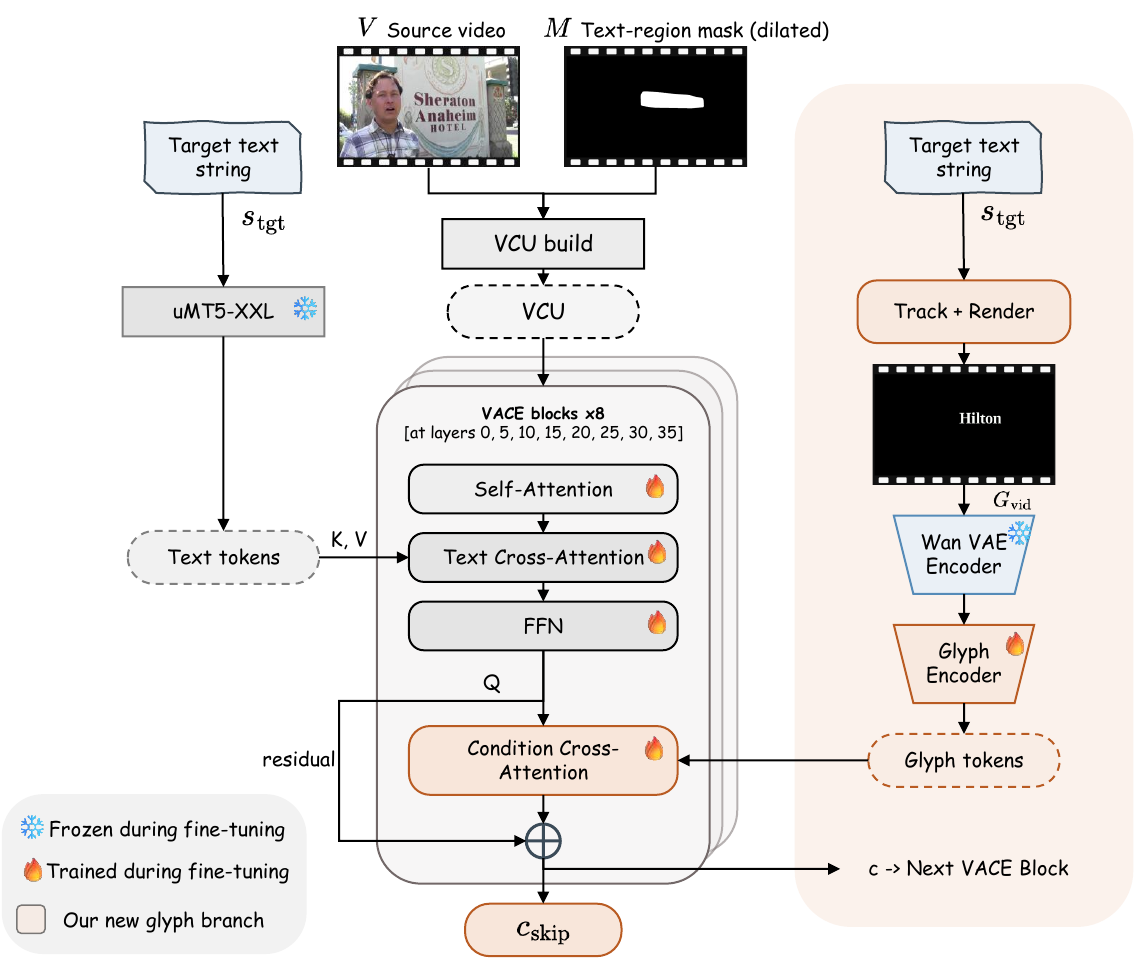
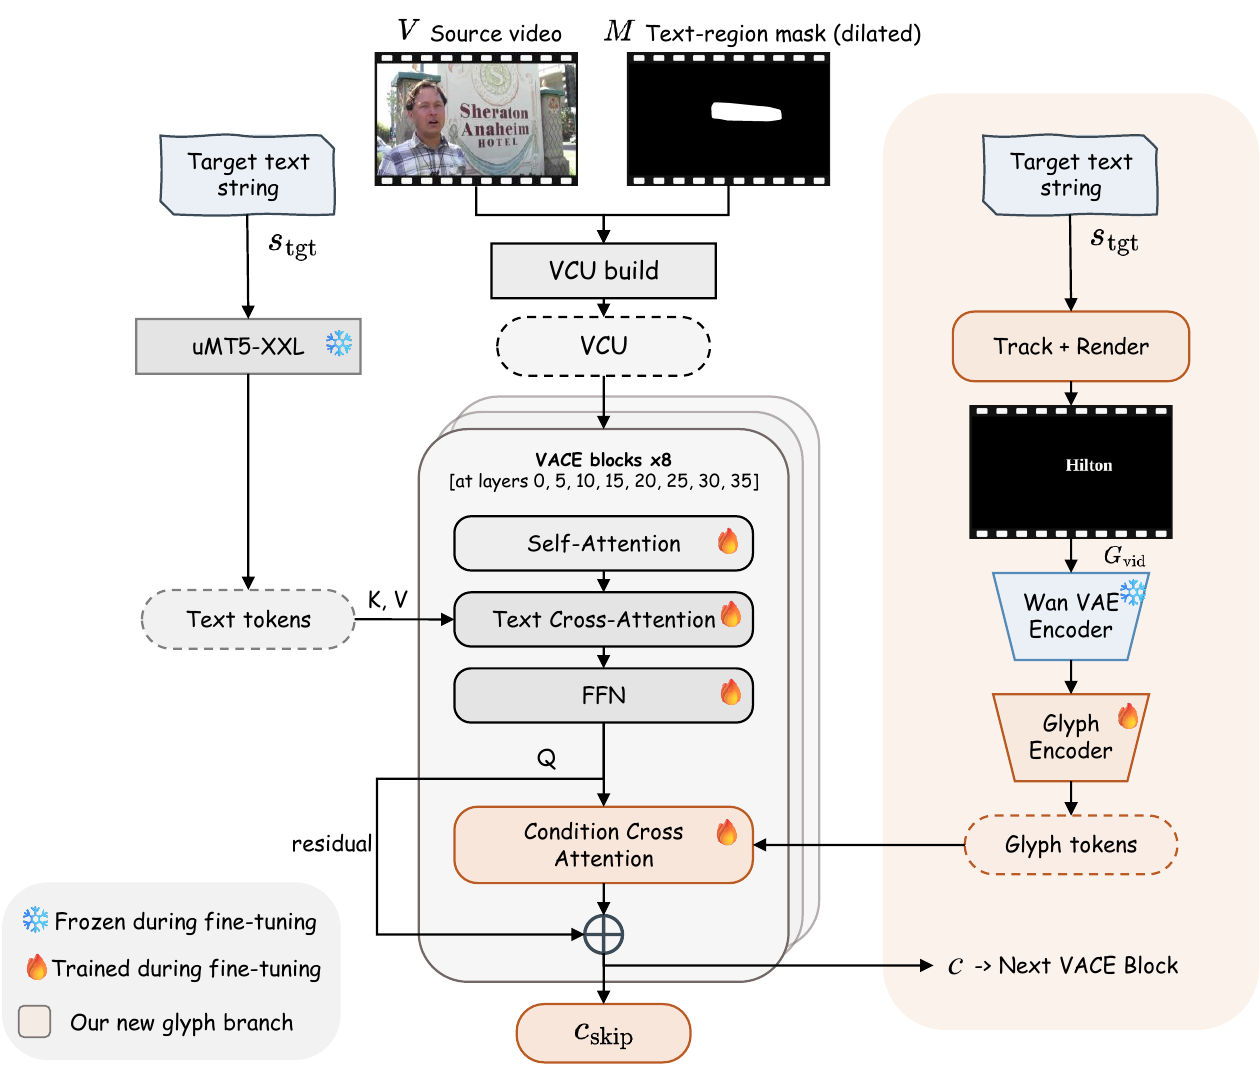
Sync project page with the latest paper
* Re-export teaser.png, pipeline.png, and arch.png from the current
  paper/ViTeX/figs/*.pdf at 160 DPI so the figures match the latest
  paper revision.
* Abstract: replace the previous prose with the new paper abstract
  verbatim. Surfaces the headline numbers (CharAcc 0.688 = +11.1% over
  VideoPainter; Flicker_f -2.1%, Flicker_c -6.6%, Warp_c -1.9% over
  the previous best) and the all-eight-baselines failure-mode framing.
* Three-part release cards: rewritten from the new contribution
  bullets in the introduction. Drops the "230-clip training split,
  permanently frozen 157-clip evaluation split" and the inline
  expansion of the four strategies; adds the explicit STRIVE
  comparison; the model card now reads "open-source reference editor"
  to match the paper's wording.

diff --git a/index.html b/index.html
@@ -437,25 +437,31 @@
         <h2 class="title is-3">Abstract</h2>
         <div class="content has-text-justified">
           <p>
-            Video scene text editing replaces the text rendered on scene surfaces in a video while preserving
-            the surrounding content, motion, lighting, and camera dynamics. Typical cases include text on
-            storefront signs, whiteboards, jerseys, screens, and product labels. Although scene text editing
-            has been extensively studied for still images, its video counterpart remains underdeveloped.
-            Existing resources lack paired real-video edits, current evaluation protocols do not measure
-            character-level correctness over time, and no open reference model exists for systematic comparison.
-            We introduce <b>ViTeX</b>, a coordinated release for faithful and temporally consistent video scene
-            text editing, comprising three components.
-            <b>ViTeX-Dataset</b> provides 387 real-world 720p clips sourced from Panda-70M and InternVid,
-            built through a semi-automatic pipeline that localizes scene text, creates source–target string
-            pairs, removes the source text, and synthesizes temporally consistent edits.
-            <b>ViTeX-Bench</b> evaluates existing methods along three axes — text correctness, visual quality,
-            and edit locality — through a thirteen-metric protocol, with a cross-family reference grid of
-            eight baselines spanning four method families.
-            <b>ViTeX-Edit-14B</b> is an open reference editor that augments Wan2.1-VACE-14B with a glyph-video
-            conditioning pathway, simultaneously enforcing target-character identity and source-aligned motion;
-            none of the four prior families exposes this combination natively.
-            Our cross-family analysis reveals complementary failure modes that single-score benchmarks would
-            average away, with no method leading on all three axes simultaneously.
+            Video scene text editing aims to replace text appearing on scene surfaces in a video,
+            such as storefront signs, whiteboards, and product labels, while preserving the surrounding
+            content, motion, and camera dynamics. Although scene text editing has been extensively
+            studied for still images, its video counterpart remains underdeveloped. Existing resources
+            do not provide paired edits over real-world videos, current protocols rarely measure whether
+            the edited region reads as the target string over time, and there is no large-scale
+            open-source benchmark for systematic comparison.
+            To close these gaps, we introduce <b>ViTeX-Bench</b>, a comprehensive benchmark suite for
+            high-fidelity and temporally consistent video scene text editing.
+            Specifically, we first built <b>ViTeX-Dataset</b>, containing 387 real-world 720p videos
+            with precise text-region masks and editing instructions; the 230-clip training split provides
+            the first such resource with paired editing results built through a semi-automatic pipeline,
+            with the rest forming the evaluation set for standardized benchmarking.
+            In ViTeX-Bench, we propose a three-axis evaluation protocol — text correctness, visual
+            quality, and edit locality — totalling 13 metrics that combine character-level OCR signals
+            with motion and preservation metrics.
+            Our benchmarking experiments indicate that all eight leading video editing models, both
+            public and commercial, fail in distinct ways: they either flicker or drift over time, or
+            simply fail to produce the requested editing effects.
+            To further validate the efficacy of our proposed dataset, we trained <b>ViTeX-Edit-14B</b>
+            on the paired training split with a motion-aligned glyph-video conditioning stream.
+            Trained on only 230 high-quality paired videos, ViTeX-Edit-14B sets the strongest CharAcc
+            among all the compared editors (0.688, +11.1% over VideoPainter) and leads three ranked
+            temporal metrics, reducing the previous best by 2.1% (Flicker<sub>f</sub>),
+            6.6% (Flicker<sub>c</sub>), and 1.9% (Warp<sub>c</sub>), respectively.
           </p>
         </div>
       </div>
@@ -478,9 +484,9 @@
         <h4>ViTeX-Dataset</h4>
         <p>
           The first paired real-video resource for video scene text editing, releasing both
-          a 230-clip training split with paired edited references and a permanently frozen
-          157-clip evaluation split. It closes the paired-data gap that prior image-only
-          datasets and STRIVE-style ROI-centric resources left open.
+          a training split with paired edited references and an evaluation split. It closes
+          the paired-data gap left open by image-only datasets and by STRIVE, which only have
+          synthetic paired data and unpaired real-world data.
         </p>
       </div>
       <div class="vt-card">
@@ -488,20 +494,18 @@
         <h4>ViTeX-Bench</h4>
         <p>
           A task-specific evaluation protocol that scores character-level correctness,
-          temporal visual quality, and edit locality on three independent axes, released with
-          a cross-family reference grid covering all four practical strategies — per-frame
-          image editing, first-frame propagation, mask-conditioned inpainting, and
-          instruction-guided V2V.
+          temporal visual quality, and edit locality on three complementary axes, released
+          with a cross-family reference grid covering all four practical strategies.
         </p>
       </div>
       <div class="vt-card">
         <div class="vt-icon">🤖</div>
         <h4>ViTeX-Edit-14B</h4>
         <p>
-          An open reference model that augments Wan2.1-VACE-14B with a glyph-video
+          An open-source reference editor that augments Wan2.1-VACE-14B with a glyph-video
           conditioning pathway for target-character identity and source-aligned motion.
-          We fine-tune it on the ViTeX-Dataset training split and release the trained
-          weights as a reproducible baseline for the public leaderboard.
+          We fine-tune it on the ViTeX-Dataset training split and release the trained weights
+          as a reproducible baseline for the public leaderboard.
         </p>
       </div>
     </div>